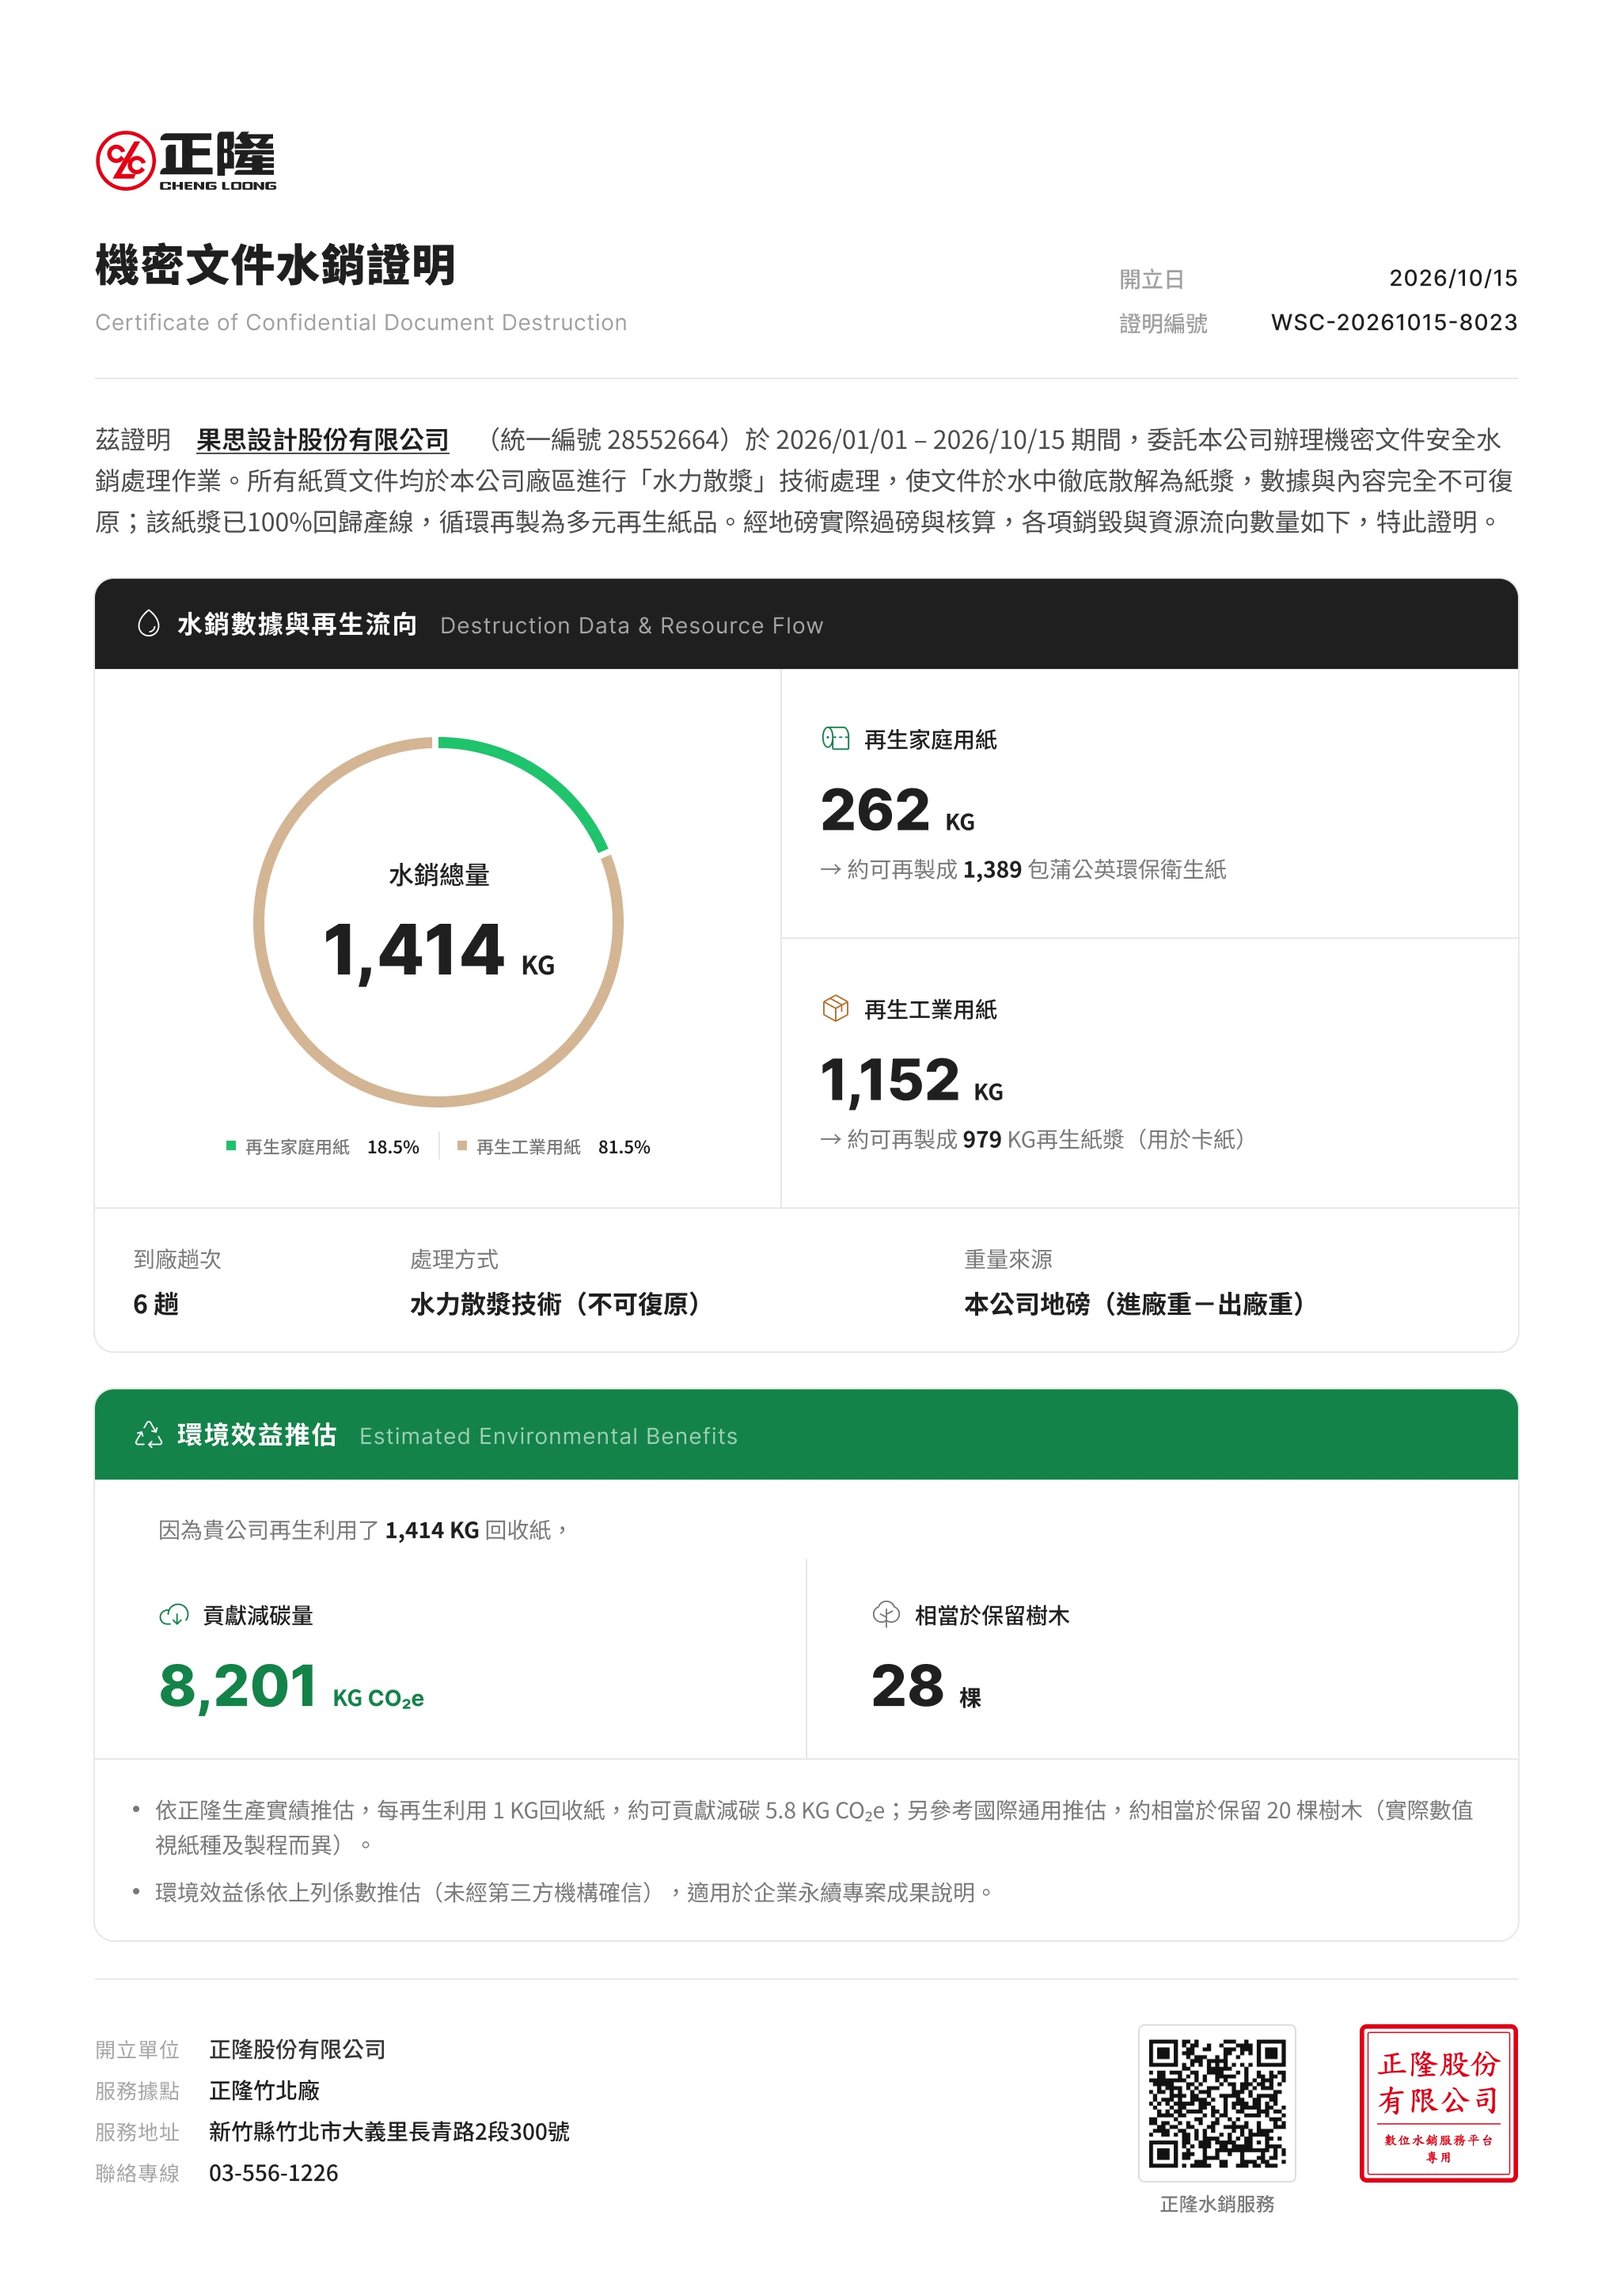
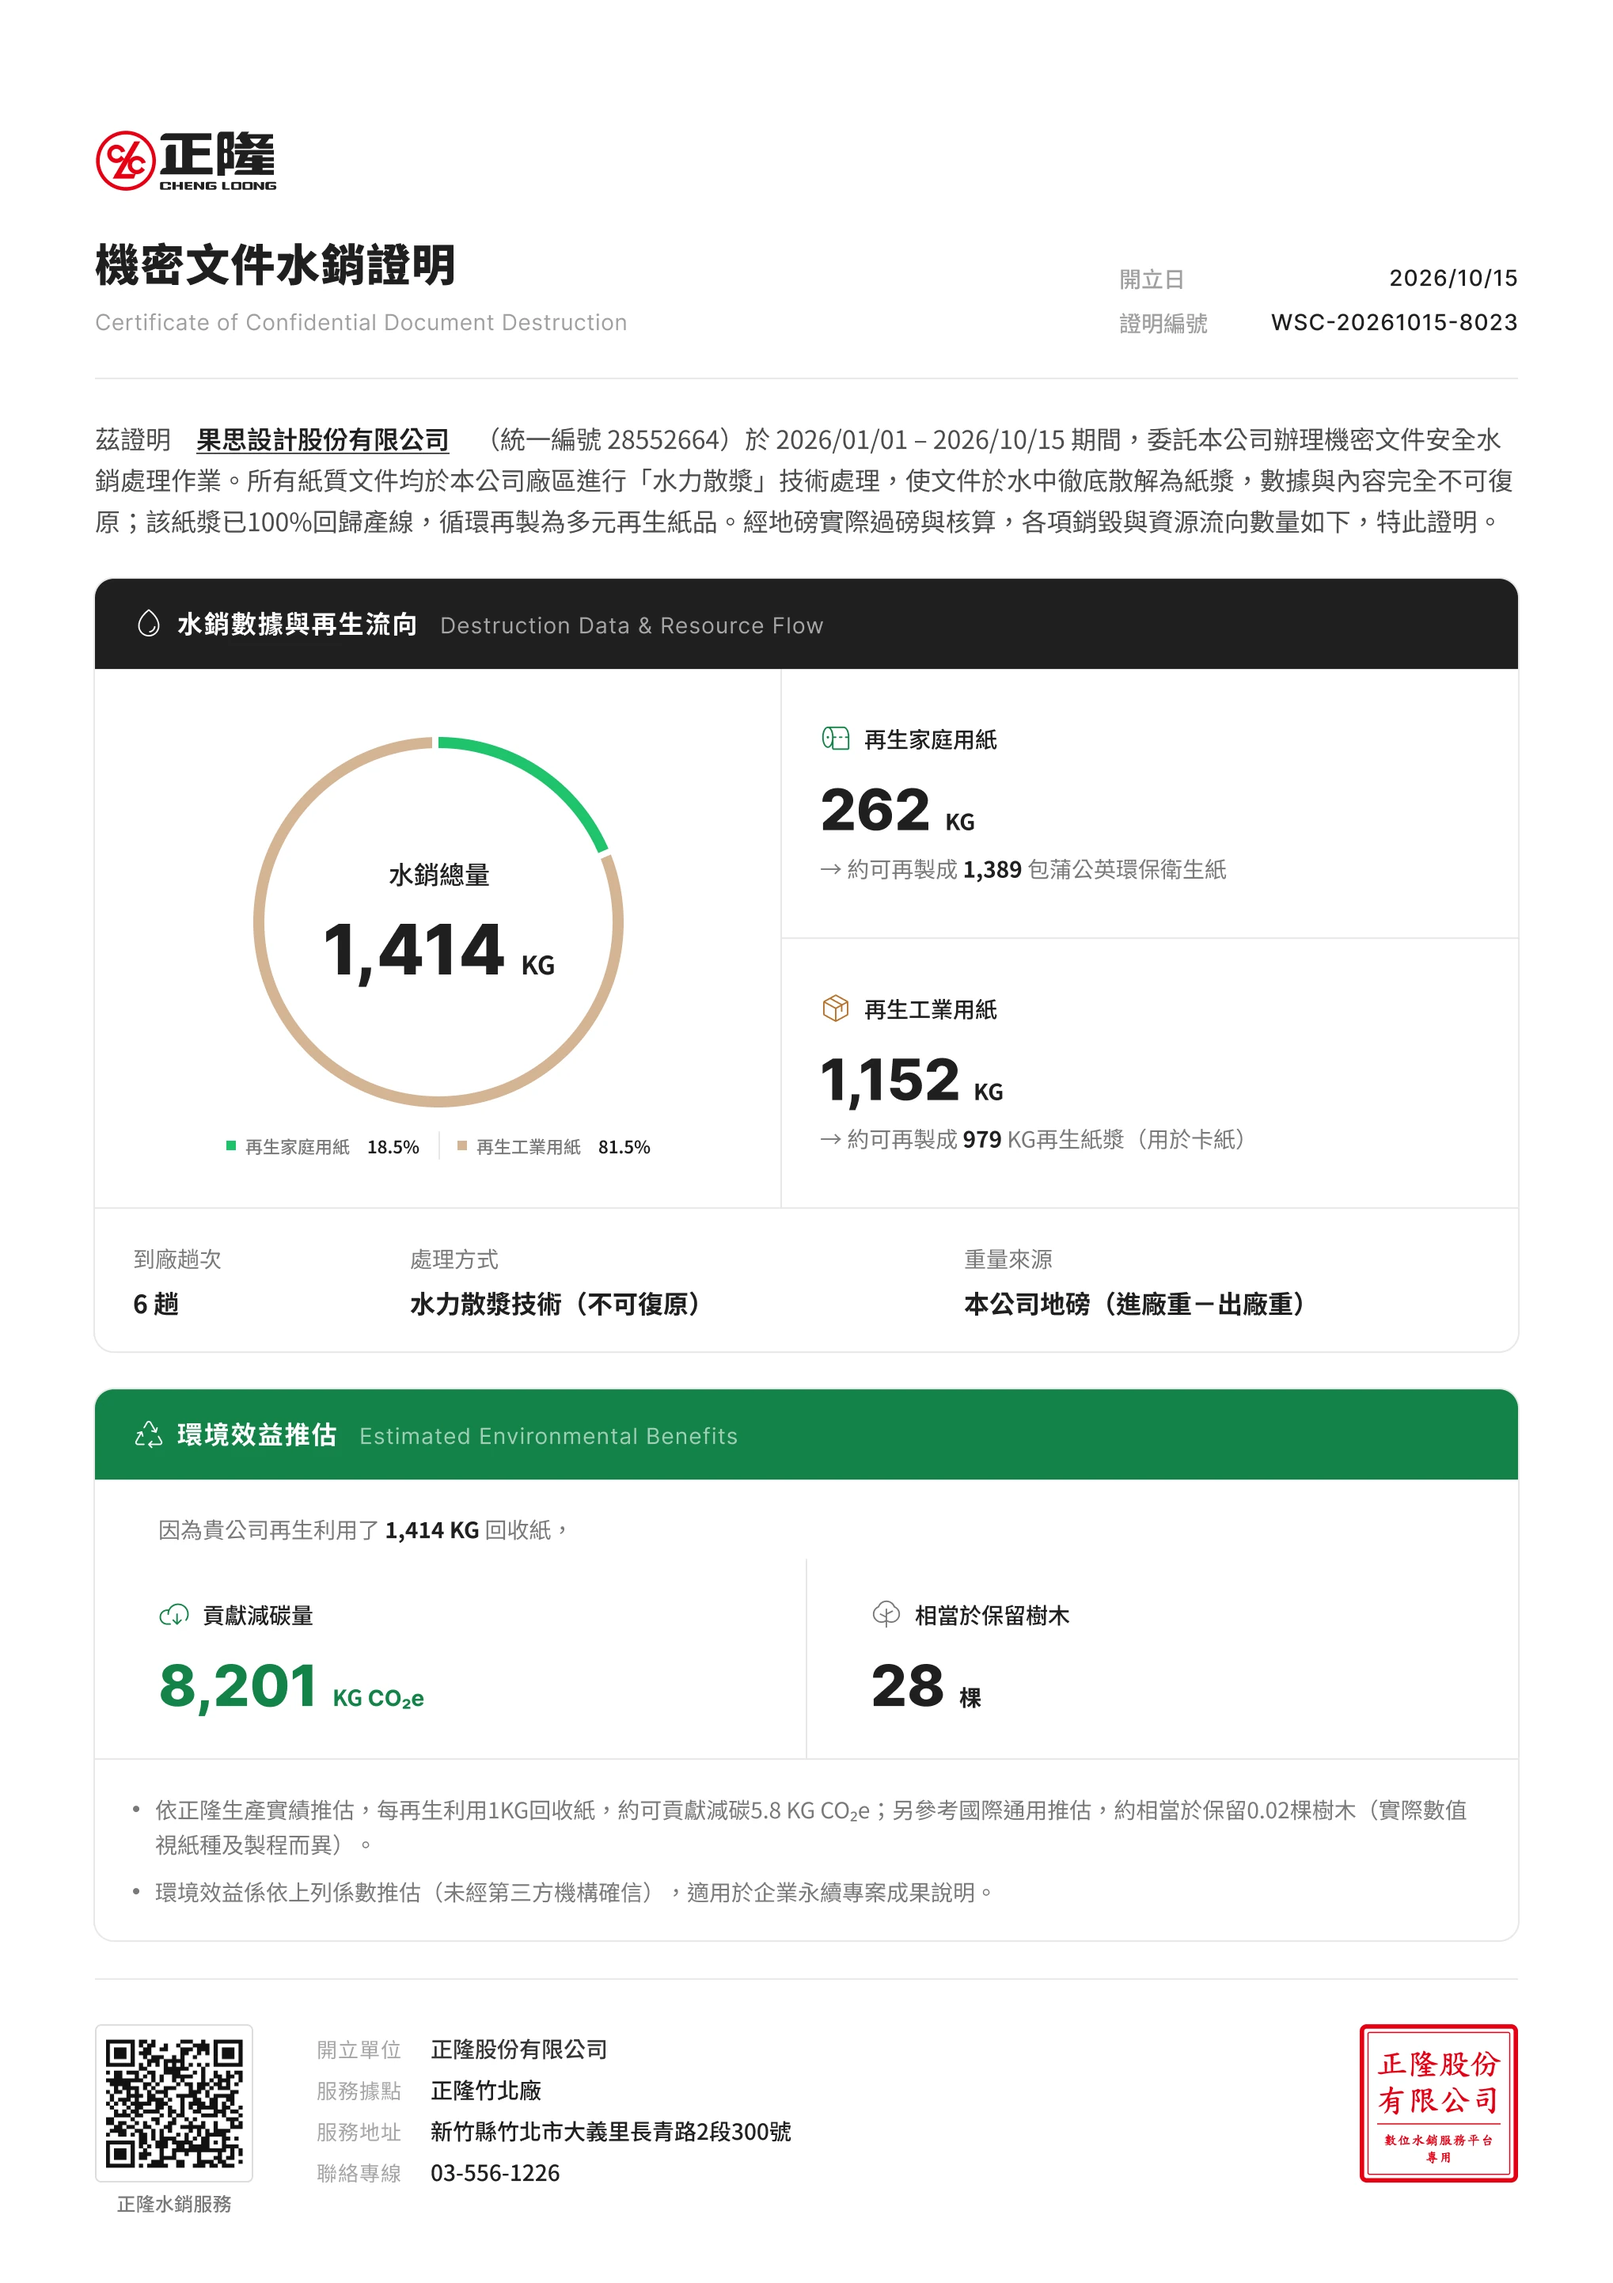
R3: certificate footer per client — QR + issuer info left, seal right
Claude-Session: https://claude.ai/code/session_01DNVcy9hAWfEoBXu333tfb9

diff --git a/site/index.html b/site/index.html
@@ -60,7 +60,7 @@
   if (d.classList.contains('is-static') || !el) { if (el) el.remove(); boot(); return; }
   d.classList.add('is-loading');
 
-  var LIST = [["assets/01-hero/logo-mark.svg?v=b183668f",4858],["assets/01-hero/logo-zh.svg?v=8d346f0f",5519],["assets/01-hero/logo-en.svg?v=60e7896b",8959],["assets/common/icon-arrow-w-20.svg?v=a434881c",705],["assets/common/icon-arrow-dark.svg?v=ef3e488f",705],["assets/01-hero/cover-4.webp?v=cbeb0ba1",580948],["assets/01-hero/cover-3.webp?v=8b7ac2f9",131604],["assets/01-hero/cover-2.webp?v=2b4a7948",444268],["assets/01-hero/cover-1.webp?v=1ca78f26",63926],["assets/01-hero/icon-safe.svg?v=f5c482a6",1689],["assets/01-hero/icon-leaf.svg?v=a3b2b098",1502],["assets/01-hero/icon-recycle.svg?v=cdbc3b23",4489],["assets/common/icon-arrow-w.svg?v=59f46b29",703],["assets/01-hero/icon-info.svg?v=674dfdb8",2192],["assets/01-hero/tooltip-arrow.svg?v=447f4627",350],["assets/02-about/card2-ellipse-a.svg?v=ba683ba5",425],["assets/02-about/card2-ellipse-b.webp?v=a199b924",1980],["assets/02-about/card2-dot.svg?v=72e9770f",453],["assets/02-about/card3-ellipse-outer.svg?v=b56266ff",693],["assets/02-about/card3-ellipse-inner.webp?v=166f4230",1430],["assets/02-about/card3-dot.svg?v=4a92476e",852],["assets/02-about/value-cycle-s-band.svg?v=9bc24605",3054],["assets/02-about/value-cycle-l-band.svg?v=dad0d414",3024],["assets/02-about/infinity-breathe.json?v=78099a33",61823],["assets/02-about/value-cycle-s-nodes.svg?v=6b7dabd6",244089],["assets/03-paper/arrow.svg?v=bd736476",705],["assets/03-paper/step1-pulper.webp?v=898fddc0",57636],["assets/03-paper/step2-workers.webp?v=18351ed7",52372],["assets/03-paper/step3-tissue.webp?v=7ba33d4c",46280],["assets/03-paper/ecolabel-1.svg?v=a0c69803",3407],["assets/03-paper/ecolabel-2.svg?v=e5224c42",23883],["assets/03-paper/ecolabel-fsc.svg?v=fd5a7d01",24928],["assets/04-process/card1-typing.webp?v=0433508a",27372],["assets/04-process/icon-files.svg?v=92c13e3c",2045],["assets/04-process/card2-truck.webp?v=d0743a65",85466],["assets/04-process/icon-truck.svg?v=7d4e6f0b",2867],["assets/04-process/card3-pulper.webp?v=908b6834",92726],["assets/04-process/icon-drop.svg?v=891a87cc",1611],["assets/04-process/card4-laptop.webp?v=f0ed0319",65938],["assets/04-process/card4-screen.webp?v=4523cf3f",32332],["assets/04-process/icon-recycle.svg?v=5d97afe7",2217],["assets/04-process/icon-info.svg?v=c065a1df",2194],["assets/04-process/booking-mockup2.webp?v=409ea280",542670],["assets/04-process/prepare-1.webp?v=bd6705ba",65766],["assets/04-process/prepare-2.webp?v=c5dd358f",51946],["assets/04-process/prepare-3.webp?v=a8ebbab0",68646],["assets/04-process/route-home@2x.webp?v=b1c56fc9",53214],["assets/04-process/route-industrial@2x.webp?v=e5549499",52052],["assets/05-green/m-arrow-next.svg?v=bd736476",705],["assets/05-green/greenpts-coins.webp?v=fbf73649",43216],["assets/05-green/paper-dandelion.webp?v=11d7024c",33306],["assets/05-green/m-icon-cart.svg?v=b4d04a8a",1651],["assets/05-green/icon-cart.svg?v=70034d6f",1837],["assets/05-green/m-icon-hand-heart.svg?v=b0851ac8",2975],["assets/05-green/icon-hand-heart.svg?v=02694811",3159],["assets/05-green/certificate-pdf@3x.webp?v=3c957f13",69942],["assets/05-green/m-icon-badge-check.svg?v=95dab9fd",3534],["assets/05-green/icon-badge-check.svg?v=bb8b13ae",3797],["assets/05-green/esg-hand.webp?v=71b1f3e5",26122],["assets/05-green/certificate-full@2x.webp?v=7cd27d71",233358],["assets/06-strip/photo-forklift.webp?v=fc1b3409",59522],["assets/06-strip/photo-windmill.webp?v=a3225c6b",20270],["assets/06-strip/photo-seedling.webp?v=32d9afdc",43038],["assets/06-strip/photo-lab.webp?v=bd52192d",72892],["assets/06-strip/photo-pulp-stack.webp?v=81e3b8c0",34264],["assets/06-strip/photo-paper-roll.webp?v=be0c18fa",26138],["assets/07-faq/icon-minus-24.svg?v=a8a4a195",289],["assets/07-faq/icon-minus-32.svg?v=63282dd2",302],["assets/07-faq/icon-add-24.svg?v=9729f4af",309],["assets/07-faq/icon-add-32.svg?v=d2c37445",309],["assets/08-cta/bg-composite.webp?v=e24e1c79",52248],["assets/09-footer/logo-mark.svg?v=d8a5953a",4865],["assets/09-footer/logo-zh.svg?v=16f81574",5534],["assets/09-footer/logo-en.svg?v=a9707496",8800],["assets/09-footer/line-top.svg?v=216b68ae",248],["assets/04-process/card4-screen-mask.svg?v=c138c612",765]];
+  var LIST = [["assets/01-hero/logo-mark.svg?v=b183668f",4858],["assets/01-hero/logo-zh.svg?v=8d346f0f",5519],["assets/01-hero/logo-en.svg?v=60e7896b",8959],["assets/common/icon-arrow-w-20.svg?v=a434881c",705],["assets/common/icon-arrow-dark.svg?v=ef3e488f",705],["assets/01-hero/cover-4.webp?v=cbeb0ba1",580948],["assets/01-hero/cover-3.webp?v=8b7ac2f9",131604],["assets/01-hero/cover-2.webp?v=2b4a7948",444268],["assets/01-hero/cover-1.webp?v=1ca78f26",63926],["assets/01-hero/icon-safe.svg?v=f5c482a6",1689],["assets/01-hero/icon-leaf.svg?v=a3b2b098",1502],["assets/01-hero/icon-recycle.svg?v=cdbc3b23",4489],["assets/common/icon-arrow-w.svg?v=59f46b29",703],["assets/01-hero/icon-info.svg?v=674dfdb8",2192],["assets/01-hero/tooltip-arrow.svg?v=447f4627",350],["assets/02-about/card2-ellipse-a.svg?v=ba683ba5",425],["assets/02-about/card2-ellipse-b.webp?v=a199b924",1980],["assets/02-about/card2-dot.svg?v=72e9770f",453],["assets/02-about/card3-ellipse-outer.svg?v=b56266ff",693],["assets/02-about/card3-ellipse-inner.webp?v=166f4230",1430],["assets/02-about/card3-dot.svg?v=4a92476e",852],["assets/02-about/value-cycle-s-band.svg?v=9bc24605",3054],["assets/02-about/value-cycle-l-band.svg?v=dad0d414",3024],["assets/02-about/infinity-breathe.json?v=78099a33",61823],["assets/02-about/value-cycle-s-nodes.svg?v=6b7dabd6",244089],["assets/03-paper/arrow.svg?v=bd736476",705],["assets/03-paper/step1-pulper.webp?v=898fddc0",57636],["assets/03-paper/step2-workers.webp?v=18351ed7",52372],["assets/03-paper/step3-tissue.webp?v=7ba33d4c",46280],["assets/03-paper/ecolabel-1.svg?v=a0c69803",3407],["assets/03-paper/ecolabel-2.svg?v=e5224c42",23883],["assets/03-paper/ecolabel-fsc.svg?v=fd5a7d01",24928],["assets/04-process/card1-typing.webp?v=0433508a",27372],["assets/04-process/icon-files.svg?v=92c13e3c",2045],["assets/04-process/card2-truck.webp?v=d0743a65",85466],["assets/04-process/icon-truck.svg?v=7d4e6f0b",2867],["assets/04-process/card3-pulper.webp?v=908b6834",92726],["assets/04-process/icon-drop.svg?v=891a87cc",1611],["assets/04-process/card4-laptop.webp?v=f0ed0319",65938],["assets/04-process/card4-screen.webp?v=4523cf3f",32332],["assets/04-process/icon-recycle.svg?v=5d97afe7",2217],["assets/04-process/icon-info.svg?v=c065a1df",2194],["assets/04-process/booking-mockup2.webp?v=409ea280",542670],["assets/04-process/prepare-1.webp?v=bd6705ba",65766],["assets/04-process/prepare-2.webp?v=c5dd358f",51946],["assets/04-process/prepare-3.webp?v=a8ebbab0",68646],["assets/04-process/route-home@2x.webp?v=b1c56fc9",53214],["assets/04-process/route-industrial@2x.webp?v=e5549499",52052],["assets/05-green/m-arrow-next.svg?v=bd736476",705],["assets/05-green/greenpts-coins.webp?v=fbf73649",43216],["assets/05-green/paper-dandelion.webp?v=11d7024c",33306],["assets/05-green/m-icon-cart.svg?v=b4d04a8a",1651],["assets/05-green/icon-cart.svg?v=70034d6f",1837],["assets/05-green/m-icon-hand-heart.svg?v=b0851ac8",2975],["assets/05-green/icon-hand-heart.svg?v=02694811",3159],["assets/05-green/certificate-pdf@3x.webp?v=3c957f13",69942],["assets/05-green/m-icon-badge-check.svg?v=95dab9fd",3534],["assets/05-green/icon-badge-check.svg?v=bb8b13ae",3797],["assets/05-green/esg-hand.webp?v=71b1f3e5",26122],["assets/05-green/certificate-full@2x.webp?v=e3989639",233376],["assets/06-strip/photo-forklift.webp?v=fc1b3409",59522],["assets/06-strip/photo-windmill.webp?v=a3225c6b",20270],["assets/06-strip/photo-seedling.webp?v=32d9afdc",43038],["assets/06-strip/photo-lab.webp?v=bd52192d",72892],["assets/06-strip/photo-pulp-stack.webp?v=81e3b8c0",34264],["assets/06-strip/photo-paper-roll.webp?v=be0c18fa",26138],["assets/07-faq/icon-minus-24.svg?v=a8a4a195",289],["assets/07-faq/icon-minus-32.svg?v=63282dd2",302],["assets/07-faq/icon-add-24.svg?v=9729f4af",309],["assets/07-faq/icon-add-32.svg?v=d2c37445",309],["assets/08-cta/bg-composite.webp?v=e24e1c79",52248],["assets/09-footer/logo-mark.svg?v=d8a5953a",4865],["assets/09-footer/logo-zh.svg?v=16f81574",5534],["assets/09-footer/logo-en.svg?v=a9707496",8800],["assets/09-footer/line-top.svg?v=216b68ae",248],["assets/04-process/card4-screen-mask.svg?v=c138c612",765]];
   var MIN = 600, MAX = 15000, CONC = 6, t0 = performance.now();
   var total = 0, got = {}, done = 0, finished = false;
   LIST.forEach(function (it) { total += it[1]; });
@@ -857,7 +857,7 @@
     <div class="cl-green__modal-panel" data-figma="1812:37717">
       <button class="cl-green__modal-close" type="button" aria-label="關閉" data-close><svg viewBox="0 0 24 24" width="24" height="24" aria-hidden="true"><path d="M6 6l12 12M18 6L6 18" fill="none" stroke="currentColor" stroke-width="2" stroke-linecap="round"/></svg></button>
       <div class="cl-green__modal-body">
-        <img class="cl-green__modal-img" src="assets/05-green/certificate-full@2x.webp?v=7cd27d71" alt="機密文件水銷證明範例（全頁）" width="1019" height="1442" loading="lazy" decoding="async">
+        <img class="cl-green__modal-img" src="assets/05-green/certificate-full@2x.webp?v=e3989639" alt="機密文件水銷證明範例（全頁）" width="1019" height="1442" loading="lazy" decoding="async">
       </div>
     </div>
   </div>

diff --git a/_design-loop/audit-source.md b/_design-loop/audit-source.md
@@ -125,3 +125,4 @@
 | 2026-10-29 | R3 水銷證明底部 | QR 左、資訊＋章右（提案） | 採設計師調整版：基本資訊在左，QR＋印鑑在右；已更新元件 1600:16017，重匯 certificate-full@2x.webp | 使用者 |
 | 2026-10-29 | R3 手機價值循環仍糊（點陣圖也不行） | 圖示文字層是整張 SVG／WebP 圖片 | 橫式圖示文字層改用 HTML／CSS 直接寫：白圓與牌卡用 box-shadow、文字是真文字、icon 與硬幣為內嵌向量（硬幣陰影只套在底層複本）；座標沿用 1695:20244，以 cqw 隨圖寬縮放；電腦版與原 SVG 疊圖比對無偏移。移除 value-cycle-l-nodes@m.webp | 使用者 |
 | 2026-10-29 | R3 正式站證明書看起來沒更新 | 圖已更新但同檔名；/assets 快取 7 天，瀏覽器沿用舊圖 | build.py 為所有 assets 網址加內容雜湊 ?v=xxxxxxxx（HTML、CSS、preload 清單），之後換圖立即生效 | 使用者 |
+| 2026-11-02 | R3 水銷證明底部（客戶再調） | 基本資訊在左，QR＋印鑑在右 | 依客戶稿 2448:28479：QR 在左、基本資訊緊接其右，印鑑靠最右；已更新元件 1600:16017 的 Signature，重匯 certificate-full@2x.webp（與客戶稿匯出圖比對一致） | 客戶 |
